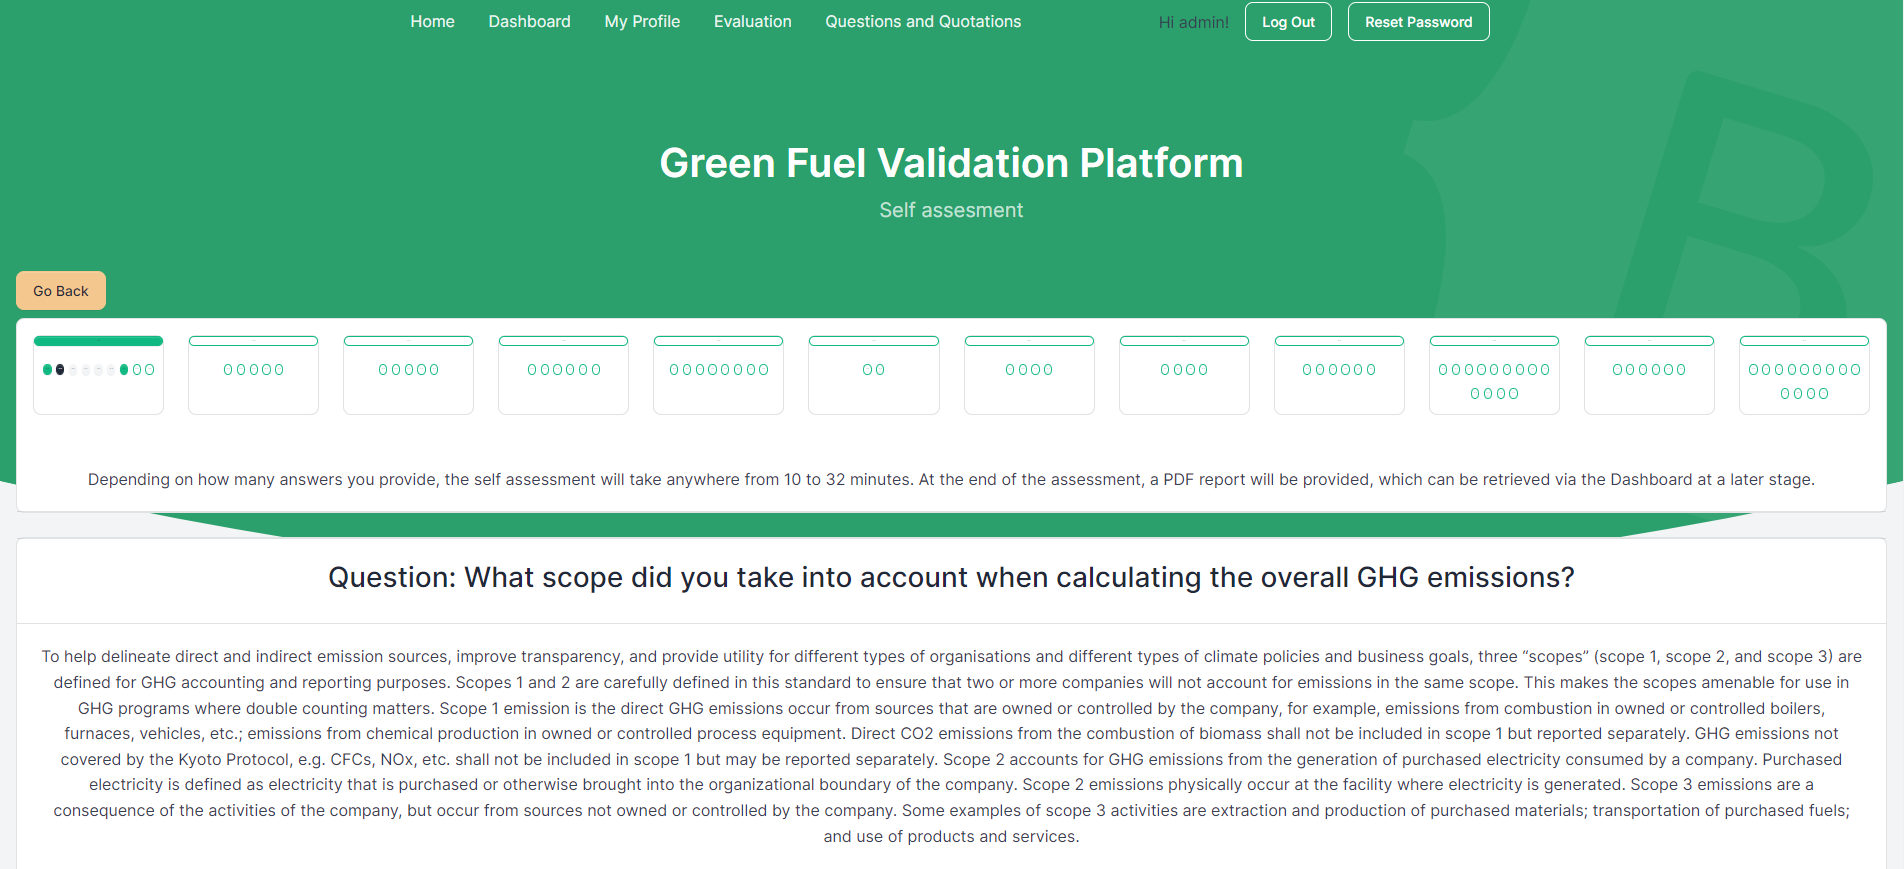
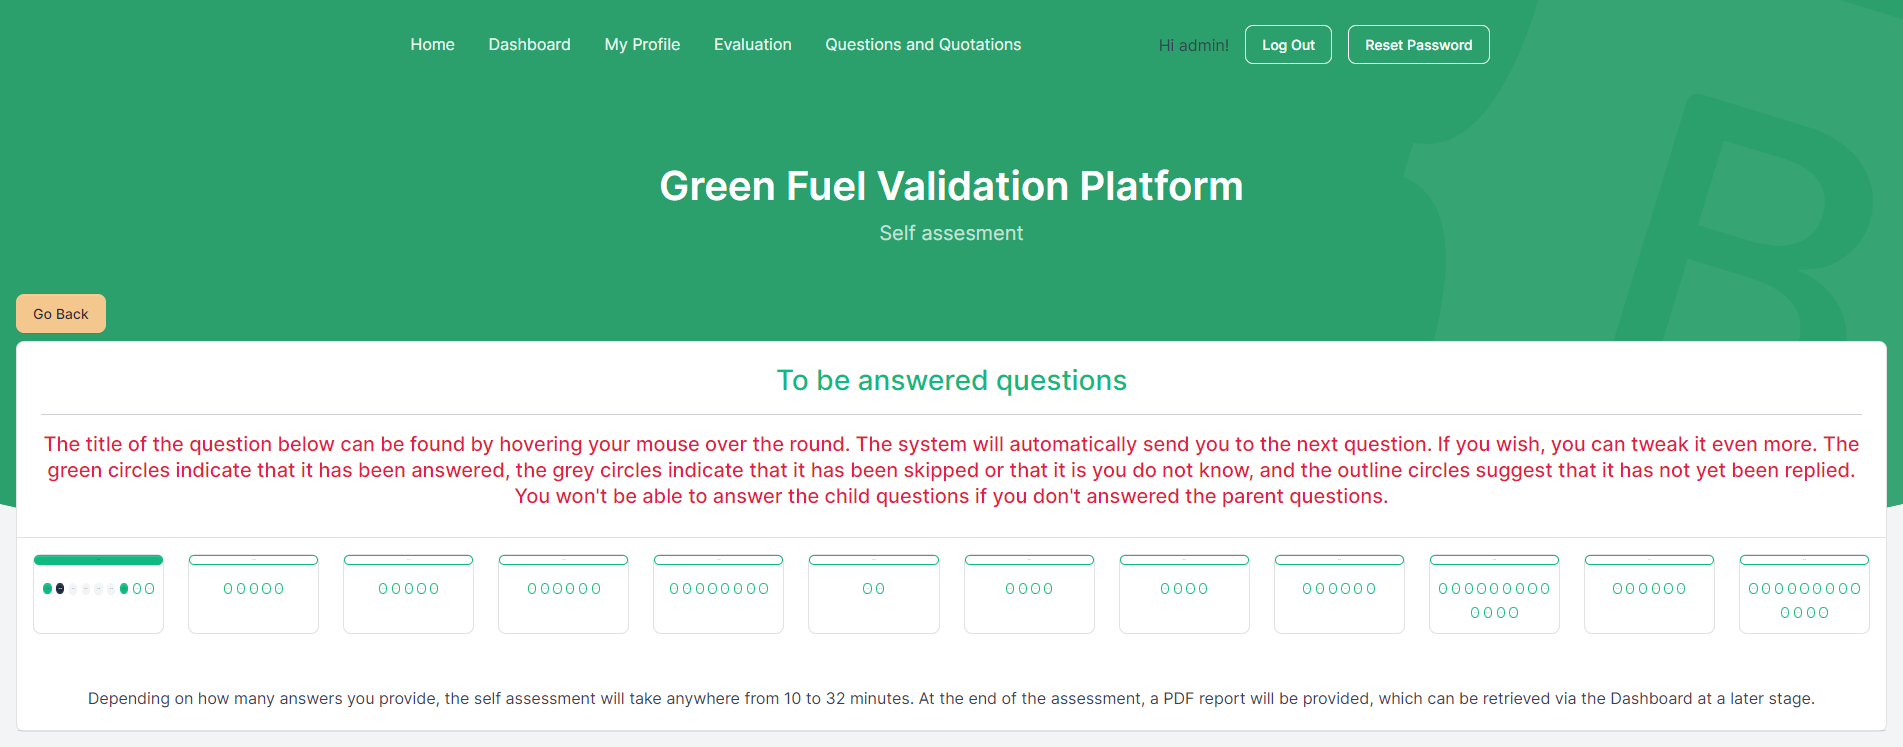
added vedio

diff --git a/templates/guide/evaluation.html b/templates/guide/evaluation.html
@@ -108,8 +108,54 @@
                <img src="{% static 'guide_image/evaluation_interface.png' %}" alt="" width="100%"> </p>
               <p>After clicking on the submit button by giving required information in the form your will be redirected to the below screen:</p>
               <img src="{% static 'guide_image/eva_ques_1.png' %}" alt="" width="100%"> 
+              <p>
+                In the section 'To be answered questions' have some set of questions. Title off each question can be visible by hovering mouse over the circle. 
+                <ul>
+                 <li>green filled button indicate that is is answered.</li> 
+                 <li>grey filled button indicated that it is skipped or don't know</li>
+                 <li>outline green circle indicated that is is not answered yet.</li>  
+                
+
+                </ul>
+                
+              </p>
+              <p>
+                to go to the inside of the set of the answere you must answred the parent question and answer must be 'Yes'. which is showing as bar.
+              </p>
+              <p>
+                After answering the question sytem autometically redirect to the next question selected by the admin. you can edit any answered questions later by navigating to the question after clicking on the target question.
+
+              </p>
               <img src="{% static 'guide_image/eva_ques_2.png' %}" alt="" width="100%"> 
+              <p>
+               <p>In the question section you can know about the question you are going to answere. to answer to the question you need to go to 'Options' section. From here:-</p>
+               <ol>
+                 <li>You should select apropriate one to make answer.</li>
+                 <li>Write any information you want to give on the box after option section , it will be printed to the Final PDF report.</li>
+                 <li>Click on 'Submit' Button.</li>
+                 <li>Now your are seeing the feedback of the option you selected in the 'GFVP Feedback' box.</li>
+                 <li>If you are ok with this Please click on the 'Confrim button'. The feedback will be save to print on the final report and system will redirect you to the next question to answere.</li>
+               </ol> 
+
+
+              </p>
               <img src="{% static 'guide_image/eva_ques_3.png' %}" alt="" width="100%"> 
+              <p>
+                Now You can see in the summary box that feedback append in apropriate section under 'Greenfuel Summary </p>
+
+<p>After confirm button we have added the testing quotation from various validation partner. You can see the detail quation by clicking on the particular quotation displaying in the orange color.</p> 
+<p>At the end of the page(Before footer) We are seeing the standared dhatashjeet related to the current qwuestion.</p>
+
+<p>
+
+Based on you giving answere system will decide autometically when report should be genarated. When Clicking on the confirm button each time system decide that should now report be genarated or not. If sytem found that report can be genarated now then you will be redirected to the below page:
+
+
+
+              </p>
+              <img src="{% static 'guide_image/eva_thank_1.png' %}" alt="" width="100%"> 
+              <img src="{% static 'guide_image/eva_thank_2.png' %}" alt="" width="100%"> 
+              
             </section>
             
             <hr class="divider">

diff --git a/templates/evaluation/eva_question.html b/templates/evaluation/eva_question.html
@@ -57,16 +57,20 @@
     </section>
     
 
-    <div  class="section pt-0">
-
-        
-
-
+    <div  class="section pt-0">   
         <div class="container-fluid mt-n10 mt-lg-n12 z-2">
             <div class="row justify-content-center">
                 <div class="col-12">                    
                     <button class="btn btn-warning btn-block mb-2" onclick="history.back()">Go Back</button>
-                    <div class="card text-center mb-4">                        
+                    <div class="card text-center mb-4">    
+
+                        <div class="card-header">
+                            <h3 class="text-success">To be answered questions</h3>
+                            <hr>
+                            <h5 class="text-danger">The title of the question below can be found by hovering your mouse over the round. The system will automatically send you to the next question. If you wish, you can tweak it even more. The green circles indicate that it has been answered, the grey circles indicate that it has been skipped or that it is you do not know, and the outline circles suggest that it has not yet been replied. You won't be able to answer the child questions if you don't answered the parent questions.</h5>
+                        </div>  
+                        
+                        
                         <div class="row p-3 justify-content-center">
                             {% for parent, child in question_dataset.items %}                           
                         <div class="col-md-3 col-lg-2 col-xl-1 mb-3">
@@ -74,13 +78,10 @@
                                 <a style="padding: 0.05rem; font-size: 0.25rem;"  class="btn {% if slug == parent.slug %} btn-primary {% else %} {% if parent.stat == 'checked' %} btn-success {% elif parent.stat == 'skipped' %} btn-gray-100  {% else %} btn-outline-success {% endif %} {% endif %} mb-1  col-12 mx-auto " data-bs-toggle="tooltip" data-bs-html="true" title="{{parent.name}}" href="{% url 'evaluation:eva_question' request.session.evaluator parent.slug %}">{% if parent.sort_order %}--{% else %}--{% endif %}</a>
                         
                             <div class="col-12 p-2">
-                                {% for item in child %}
-                                
+                                {% for item in child %}                                
                                 <a style="padding: 0.08rem; font-size: 0.25rem;" class="btn {% if slug == item.slug %} btn-primary {% else %} {% if item.stat == 'checked' %} btn-success {% elif item.stat == 'skipped' %} btn-gray-100  {% else %} btn-outline-success {% endif %} {% endif %} mb-1 rounded-circle "  data-bs-toggle="tooltip" data-bs-html="true" title="{{item.name}}" style="font-size: 4px;" href="{% url 'evaluation:eva_question' request.session.evaluator item.slug %}">--</a>
-                               
                                 {% endfor %} 
-                            </div>
-                          
+                            </div>             
 
                         </div>
                         </div>

diff --git a/templates/home/index.html b/templates/home/index.html
@@ -76,8 +76,13 @@
                             </div>                        
                             {% endfor %}                           
                         </div>                        
-                    </div>
+                    </div>  
                 </div>
+                <div class="col-12">
+                    <div class="row p-3 justify-content-center">
+                    <iframe width=100% height="630" src="https://www.youtube.com/embed/nYUhoeKWayQ" title="YouTube video player" frameborder="0" allow="accelerometer; autoplay; clipboard-write; encrypted-media; gyroscope; picture-in-picture" allowfullscreen></iframe>
+                </div>
+            </div>
             </div>
         </div>
 

diff --git a/evaluation/models.py b/evaluation/models.py
@@ -74,6 +74,8 @@ class Question(models.Model):
     is_active = models.BooleanField(default=False)
     is_door = models.BooleanField(default=False)
     chart_title = models.CharField(max_length=252, null=True, blank=True)
+    create_date = models.DateTimeField(auto_now_add=True, null=True, blank=True, editable=True)
+    update_date = models.DateTimeField(auto_now=True, null=True, blank=True, editable=True)
 
     class Meta:
         ordering = ['sort_order']
@@ -157,6 +159,9 @@ class Option(models.Model):
     overall = models.CharField(max_length=1, default=0)
     positive = models.CharField(max_length=1, default=0)
     
+    
+    
+    
 
     def __str__(self):
         return self.name + '(' + str(self.question.sort_order) + ')'
@@ -225,6 +230,7 @@ class Evaluator(models.Model):
     orgonization = models.CharField(max_length=252)
     biofuel = models.ForeignKey(Biofuel, on_delete=models.SET_NULL, null=True, blank=True)
     create_date = models.DateTimeField(auto_now_add=True, null=True, blank=True, editable=True)
+    update_date = models.DateTimeField(auto_now=True, null=True, blank=True, editable=True)
     report_genarated = models.BooleanField(default=False)
     
 
@@ -294,8 +300,9 @@ class EvaLebelStatement(models.Model):
     dont_know = models.BooleanField(default=False)
     assesment = models.BooleanField(default=False)
     next_activity = models.BooleanField(default=False)
-    evaluator = models.ForeignKey(Evaluator, on_delete=models.RESTRICT, related_name='s_evaluators', null=True)
-    create_date = models.DateTimeField(auto_now_add=True, null=True, blank=True)
+    evaluator = models.ForeignKey(Evaluator, on_delete=models.RESTRICT, related_name='s_evaluators', null=True)    
+    create_date = models.DateTimeField(auto_now_add=True, null=True, blank=True, editable=True)
+    update_date = models.DateTimeField(auto_now=True, null=True, blank=True, editable=True)
 
     def __str__(self):
         return self.statement
@@ -309,6 +316,8 @@ class OptionSet(models.Model):
     positive = models.CharField(max_length=1, default=0)
     overall = models.CharField(max_length=1, default=0)
     ls_id = models.CharField(max_length=252, default=0)
+    create_date = models.DateTimeField(auto_now_add=True, null=True, blank=True, editable=True)
+    update_date = models.DateTimeField(auto_now=True, null=True, blank=True, editable=True)
 
 
     def __str__(self):
@@ -329,6 +338,8 @@ class NextActivities(models.Model):
     related_percent = models.IntegerField()
     compulsory_percent = models.IntegerField()    
     is_active = models.BooleanField(default=True)
+    create_date = models.DateTimeField(auto_now_add=True, null=True, blank=True, editable=True)
+    update_date = models.DateTimeField(auto_now=True, null=True, blank=True, editable=True)
     
     
     def __str__(self):
@@ -345,6 +356,8 @@ class EvaluatorActivities(models.Model):
     related_percent = models.IntegerField()
     compulsory_percent = models.IntegerField()
     is_active = models.BooleanField(default=False)
+    create_date = models.DateTimeField(auto_now_add=True, null=True, blank=True, editable=True)
+    update_date = models.DateTimeField(auto_now=True, null=True, blank=True, editable=True)
     
     def __str__(self):
         return str(self.next_activity.name_and_standared)

diff --git a/evaluation/migrations/0054_evalebelstatement_update_date_evaluator_update_date_and_more.py b/evaluation/migrations/0054_evalebelstatement_update_date_evaluator_update_date_and_more.py
@@ -1,0 +1,63 @@
+# Generated by Django 4.0.1 on 2022-05-24 08:14
+
+from django.db import migrations, models
+
+
+class Migration(migrations.Migration):
+
+    dependencies = [
+        ('evaluation', '0053_alter_question_chart_title'),
+    ]
+
+    operations = [
+        migrations.AddField(
+            model_name='evalebelstatement',
+            name='update_date',
+            field=models.DateTimeField(auto_now=True, null=True),
+        ),
+        migrations.AddField(
+            model_name='evaluator',
+            name='update_date',
+            field=models.DateTimeField(auto_now=True, null=True),
+        ),
+        migrations.AddField(
+            model_name='evaluatoractivities',
+            name='create_date',
+            field=models.DateTimeField(auto_now_add=True, null=True),
+        ),
+        migrations.AddField(
+            model_name='evaluatoractivities',
+            name='update_date',
+            field=models.DateTimeField(auto_now=True, null=True),
+        ),
+        migrations.AddField(
+            model_name='nextactivities',
+            name='create_date',
+            field=models.DateTimeField(auto_now_add=True, null=True),
+        ),
+        migrations.AddField(
+            model_name='nextactivities',
+            name='update_date',
+            field=models.DateTimeField(auto_now=True, null=True),
+        ),
+        migrations.AddField(
+            model_name='optionset',
+            name='create_date',
+            field=models.DateTimeField(auto_now_add=True, null=True),
+        ),
+        migrations.AddField(
+            model_name='optionset',
+            name='update_date',
+            field=models.DateTimeField(auto_now=True, null=True),
+        ),
+        migrations.AddField(
+            model_name='question',
+            name='create_date',
+            field=models.DateTimeField(auto_now_add=True, null=True),
+        ),
+        migrations.AddField(
+            model_name='question',
+            name='update_date',
+            field=models.DateTimeField(auto_now=True, null=True),
+        ),
+    ]

diff --git a/evaluation/admin.py b/evaluation/admin.py
@@ -4,6 +4,8 @@
 
 from django.contrib import admin
 from . models import *
+from django.contrib import messages
+from django.utils.translation import ngettext
 
 class Labels(admin.TabularInline):
     model = Label
@@ -13,7 +15,7 @@ class Labels(admin.TabularInline):
 
 class Options(admin.TabularInline):
     model = Option
-    extra = 0
+    extra = 0 
     fk_name = "question"
 
 class QuestionAdmin(admin.ModelAdmin):
@@ -37,6 +39,31 @@ class EvaluatorAdmin(admin.ModelAdmin):
     list_display = ('name','creator', 'email', 'phone', 'biofuel', 'create_date','orgonization', 'report_genarated')
     list_filter = ('biofuel', )
     readonly_fields = ('report_genarated', 'orgonization', 'name','creator', 'email', 'phone', 'biofuel', 'create_date',)
+    
+    
+    @admin.action(description='Check changes in evaluations and notify to the evaluators')
+    def check_and_notify(self, request, queryset):
+        happened = 0 
+        happen_time_restriction = 3   
+        for i in queryset:
+            happened += 1
+            if happened <= happen_time_restriction:               
+                self.message_user(request, ngettext( '%d Task has been done and mail sent.',  '%d Tasks has been done and mail sent.', happen_time_restriction, ) % happen_time_restriction, messages.SUCCESS)
+            else:
+                self.message_user(request, ngettext(  '%d Task can be done at a time to reduce overhelming.',  '%d Tasks can be done at a time to reduce overhelming.', happen_time_restriction, ) % happen_time_restriction, messages.WARNING)
+        
+                
+                
+        
+        
+        
+    
+    
+    actions = [check_and_notify]
+     
+    
+    
+    
 admin.site.register(Evaluator, EvaluatorAdmin)
 
 admin.site.register(DifinedLabel)

diff --git a/doc/migrations/0009_alter_acordion_apps.py b/doc/migrations/0009_alter_acordion_apps.py
@@ -1,0 +1,18 @@
+# Generated by Django 4.0.1 on 2022-05-24 08:14
+
+from django.db import migrations, models
+
+
+class Migration(migrations.Migration):
+
+    dependencies = [
+        ('doc', '0008_alter_acordion_apps'),
+    ]
+
+    operations = [
+        migrations.AlterField(
+            model_name='acordion',
+            name='apps',
+            field=models.CharField(choices=[('administration', 'Administration'), ('authentication-and-authorization', 'Authentication and Authorization'), ('content-types', 'Content Types'), ('sessions', 'Sessions'), ('messages', 'Messages'), ('static-files', 'Static Files'), ('sites', 'Sites'), ('axes', 'Axes'), ('accounts', 'Accounts'), ('home', 'Home'), ('evaluation', 'Evaluation'), ('crm', 'Crm'), ('doc', 'Doc'), ('django-recaptcha', 'Django reCAPTCHA'), ('guide', 'Guide')], max_length=50),
+        ),
+    ]

diff --git a/crm/migrations/0113_alter_lead_confirm_code.py b/crm/migrations/0113_alter_lead_confirm_code.py
@@ -1,0 +1,18 @@
+# Generated by Django 4.0.1 on 2022-05-24 08:14
+
+from django.db import migrations, models
+
+
+class Migration(migrations.Migration):
+
+    dependencies = [
+        ('crm', '0112_alter_lead_confirm_code'),
+    ]
+
+    operations = [
+        migrations.AlterField(
+            model_name='lead',
+            name='confirm_code',
+            field=models.CharField(default='293395070573', max_length=50),
+        ),
+    ]
